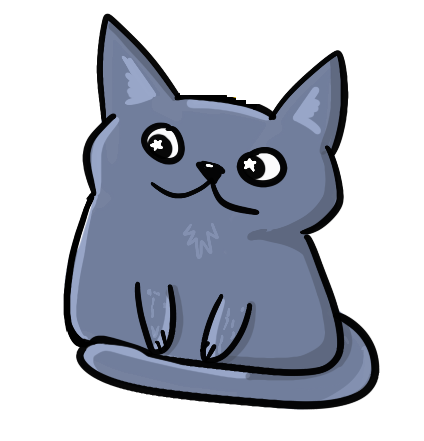
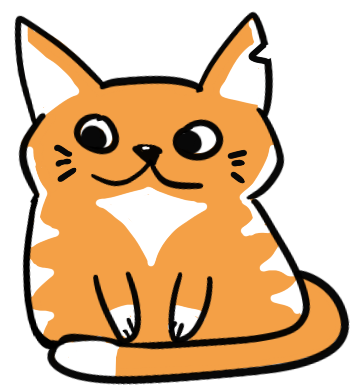
options and bg

diff --git a/src/index.css b/src/index.css
@@ -3,7 +3,7 @@
   font-family: system-ui, -apple-system, sans-serif;
   line-height: 1.5;
 
-  --bg: #1a1a1a;
+  --bg: #4e4e4e;
   --ink: #eeeeee;
   --muted: #999999;
   --track: #333333;
@@ -26,12 +26,11 @@ body,
 
 body {
   margin: 0;
-  background: var(--bg);
+  background: var(--bg) url('/background.png') center / cover no-repeat fixed;
   color: var(--ink);
 }
 
 .stage {
-  position: relative;
   display: flex;
   flex-direction: column;
   height: 100%;
@@ -57,10 +56,10 @@ body {
   gap: 0.4rem;
   margin-bottom: 0.35rem;
   font-size: 0.8rem;
+  color: #000000;
 }
 
 .meter-label {
-  color: var(--muted);
   white-space: nowrap;
   overflow: hidden;
   text-overflow: ellipsis;
@@ -79,7 +78,6 @@ body {
 .meter-fill {
   height: 100%;
   background: var(--accent);
-  transition: width 300ms ease-out;
 }
 
 .meter[data-resource='population'] { --accent: var(--population); }
@@ -93,19 +91,13 @@ body {
   }
 }
 
-@media (prefers-reduced-motion: reduce) {
-  .meter-fill {
-    transition: none;
-  }
-}
-
 /* ---- textbox ---- */
 
 .textbox {
   position: absolute;
-  top: 6rem;
-  right: 2rem;
-  width: min(26rem, 40%);
+  top: 6%;
+  left: calc(6% + 1.462 * var(--throne-w));
+  width: calc(0.6 * var(--throne-w));
   height: 13rem;
   padding: 1rem;
   background: #ffffff;
@@ -114,7 +106,7 @@ body {
 
 .choices {
   position: absolute;
-  top: 72%;
+  top: 94%;
   left: 146.2%;
   width: 60%;
   display: grid;
@@ -139,6 +131,8 @@ body {
 /* ---- scene ---- */
 
 .scene {
+  position: relative;
+  --throne-w: min(100%, 34rem, calc((100svh - 9rem) * 1.0856));
   display: flex;
   flex: 1;
   align-items: center;
@@ -148,35 +142,37 @@ body {
 
 .throne {
   position: relative;
-  width: min(100%, 34rem, calc((100svh - 9rem) * 1.0856));
+  width: var(--throne-w);
   aspect-ratio: 710 / 654;
   margin-left: 6%;
 }
 
 .stainedglass {
   position: absolute;
-  top: 5%;
-  left: 92.7%;
-  width: 40%;
+  top: -30%;
+  left: 86.7%;
+  width: 52%;
   z-index: -1;
 }
 
 .sofa {
+  position: relative;
   display: block;
+  top: 16%;
   width: 100%;
   height: 100%;
 }
 
 .cat {
   position: absolute;
-  top: 8.5%;
+  top: 24.5%;
   left: 23.2%;
   width: 52%;
 }
 
 .citizen {
   position: absolute;
-  top: 8.5%;
+  top: 30.5%;
   left: 150.2%;
   width: 52%;
 }

diff --git a/src/store.ts b/src/store.ts
@@ -1,4 +1,5 @@
 import { create } from 'zustand'
+import { EVENTS } from './events'
 
 export const RESOURCES = ['population', 'money', 'happiness', 'materials'] as const
 export type Resource = (typeof RESOURCES)[number]
@@ -13,31 +14,55 @@ const INITIAL: Record<Resource, number> = {
   materials: 50,
 }
 
+
+export type Effects = Partial<Record<Resource, number>>
+
 const clamp = (n: number) => Math.max(MIN, Math.min(MAX, n))
 
 type GameState = {
   resources: Record<Resource, number>
-  /** Apply a relative change, e.g. adjust('money', -10) */
+
+  eventIndex: number
+
+  choose: (index: number) => void
   adjust: (resource: Resource, delta: number) => void
-  /** Set an absolute value */
+  applyEffects: (effects: Effects) => void
   setValue: (resource: Resource, value: number) => void
   reset: () => void
 }
 
-export const useGame = create<GameState>((set) => ({
+export const useGame = create<GameState>((set, get) => ({
   resources: { ...INITIAL },
+  eventIndex: 0,
+
+  choose: (index) => {
+    const event = EVENTS[get().eventIndex]
+    const choice = event?.choices[index]
+    if (!choice) return
+    get().applyEffects(choice.effects)
+    set((s) => ({ eventIndex: (s.eventIndex + 1) % EVENTS.length }))
+  },
 
   adjust: (resource, delta) =>
     set((s) => ({
       resources: { ...s.resources, [resource]: clamp(s.resources[resource] + delta) },
     })),
 
+  applyEffects: (effects) =>
+    set((s) => {
+      const resources = { ...s.resources }
+      for (const [resource, delta] of Object.entries(effects) as [Resource, number][]) {
+        resources[resource] = clamp(resources[resource] + delta)
+      }
+      return { resources }
+    }),
+
   setValue: (resource, value) =>
     set((s) => ({
       resources: { ...s.resources, [resource]: clamp(value) },
     })),
 
-  reset: () => set({ resources: { ...INITIAL } }),
+  reset: () => set({ resources: { ...INITIAL }, eventIndex: 0 }),
 }))
 
 // Dev convenience: poke the meters from the browser console.

diff --git a/src/events.ts b/src/events.ts
@@ -1,0 +1,45 @@
+import type { Effects } from './store'
+
+export type Choice = {
+  label: string
+  effects: Effects
+}
+
+export type GameEvent = {
+  id: string
+  text: string
+  choices: Choice[]
+}
+
+export const EVENTS: GameEvent[] = [
+  {
+    id: 'event-1',
+    text: 'Event 1 text',
+    choices: [
+      { label: '1', effects: { money: 15, happiness: -10 } },
+      { label: '2', effects: { happiness: 5, money: -5 } },
+      { label: '3', effects: { money: 8, happiness: -2 } },
+      { label: '4', effects: { happiness: 20, money: -20, population: 5 } },
+    ],
+  },
+  {
+    id: 'event-2',
+    text: 'Event 2 text',
+    choices: [
+      { label: '1', effects: { money: 12, materials: -10 } },
+      { label: '2', effects: { materials: 15 } },
+      { label: '3', effects: { happiness: 15, materials: -15 } },
+      { label: '4', effects: { materials: 5, money: -8, population: 3 } },
+    ],
+  },
+  {
+    id: 'event-3',
+    text: 'Event 3 text',
+    choices: [
+      { label: '1', effects: { money: 15, happiness: -10 } },
+      { label: '2', effects: { happiness: 5, money: -5 } },
+      { label: '3', effects: { money: 8, happiness: -2 } },
+      { label: '4', effects: { happiness: 20, money: -20, population: 5 } },
+    ],
+  },
+]

diff --git a/src/App.tsx b/src/App.tsx
@@ -1,20 +1,30 @@
 import { Meters } from './components/Meters'
+import { EVENTS } from './events'
+import { useGame } from './store'
 
 export default function App() {
+  const event = EVENTS[useGame((s) => s.eventIndex)]
+  const choose = useGame((s) => s.choose)
+
   return (
     <main className="stage">
       <Meters />
-      <div className="textbox">hi felis</div>
       <div className="scene">
+        <div className="textbox">{event.text}</div>
         <div className="throne">
           <img className="stainedglass" src="/stainedglass.png" alt="" />
           <img className="sofa" src="/sofa.png" alt="" />
           <img className="cat" src="/cat.png" alt="" />
           <img className="citizen" src="/citizen.png" alt="" />
           <div className="choices">
-            {['1', '2', '3', '4'].map((label) => (
-              <button key={label} className="choice" type="button">
-                {label}
+            {event.choices.map((choice, i) => (
+              <button
+                key={choice.label}
+                className="choice"
+                type="button"
+                onClick={() => choose(i)}
+              >
+                {choice.label}
               </button>
             ))}
           </div>

diff --git a/index.html b/index.html
@@ -3,7 +3,7 @@
   <head>
     <meta charset="UTF-8" />
     <meta name="viewport" content="width=device-width, initial-scale=1.0" />
-    <title>Perfect Day</title>
+    <title>Felis the Great</title>
   </head>
   <body>
     <div id="root"></div>
